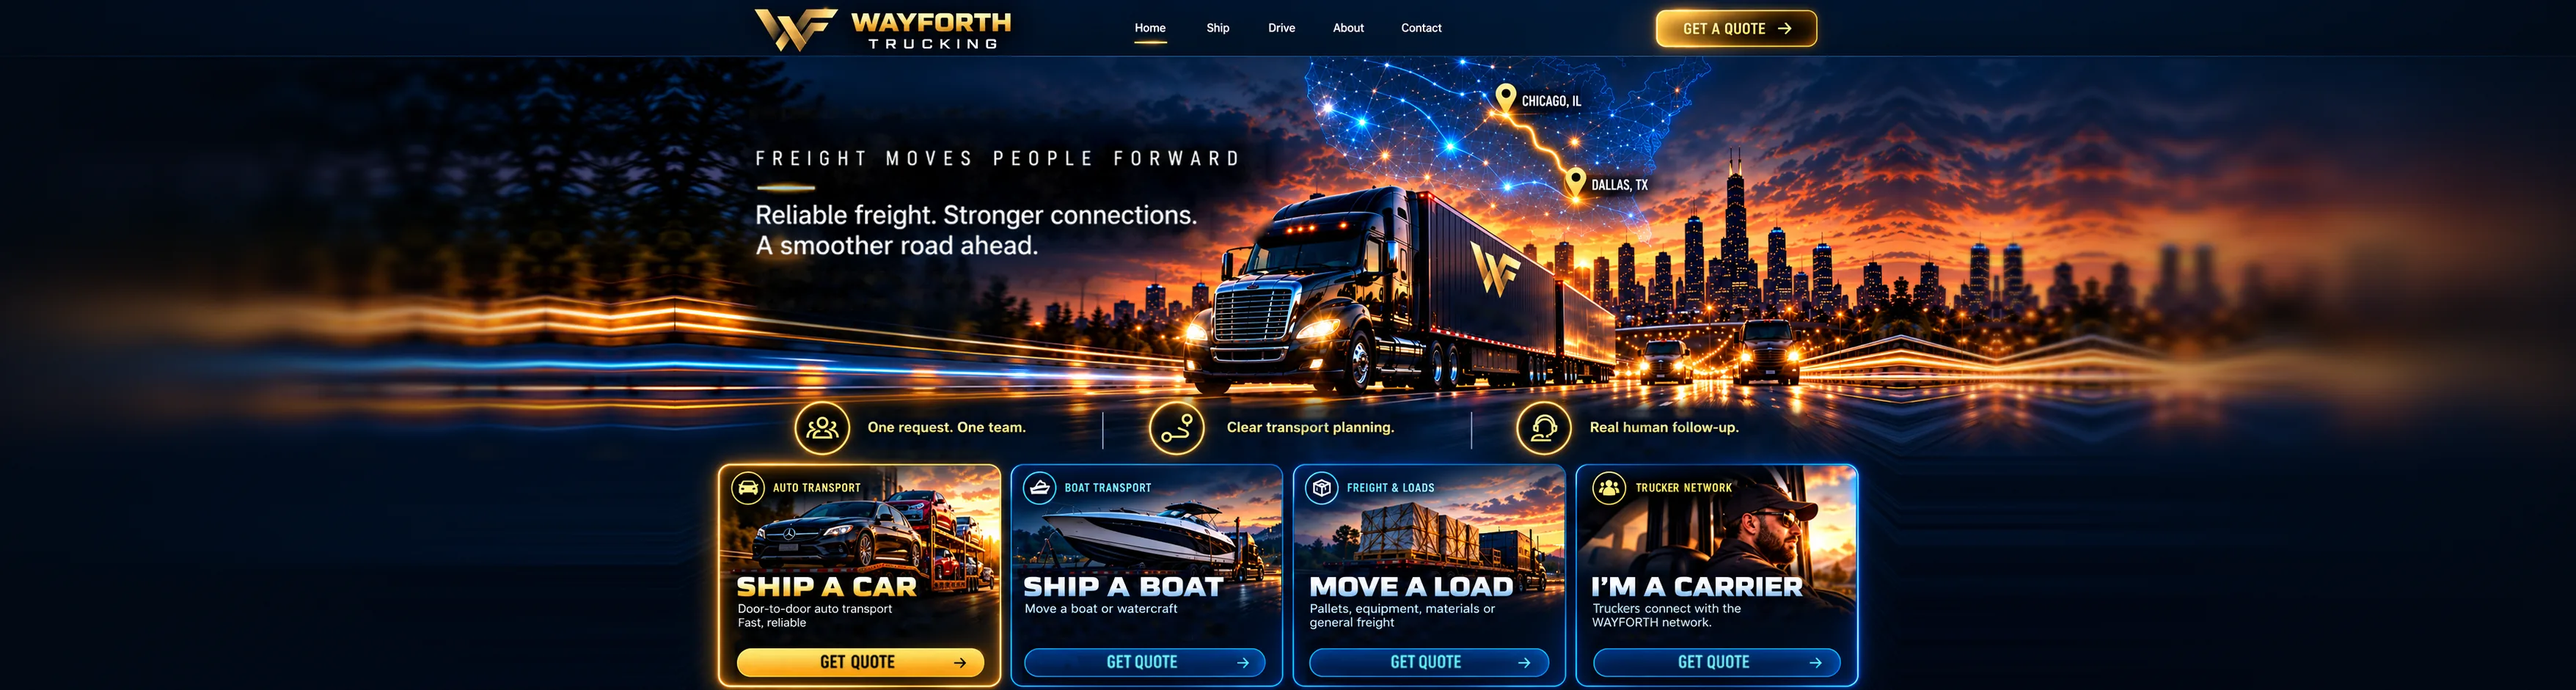
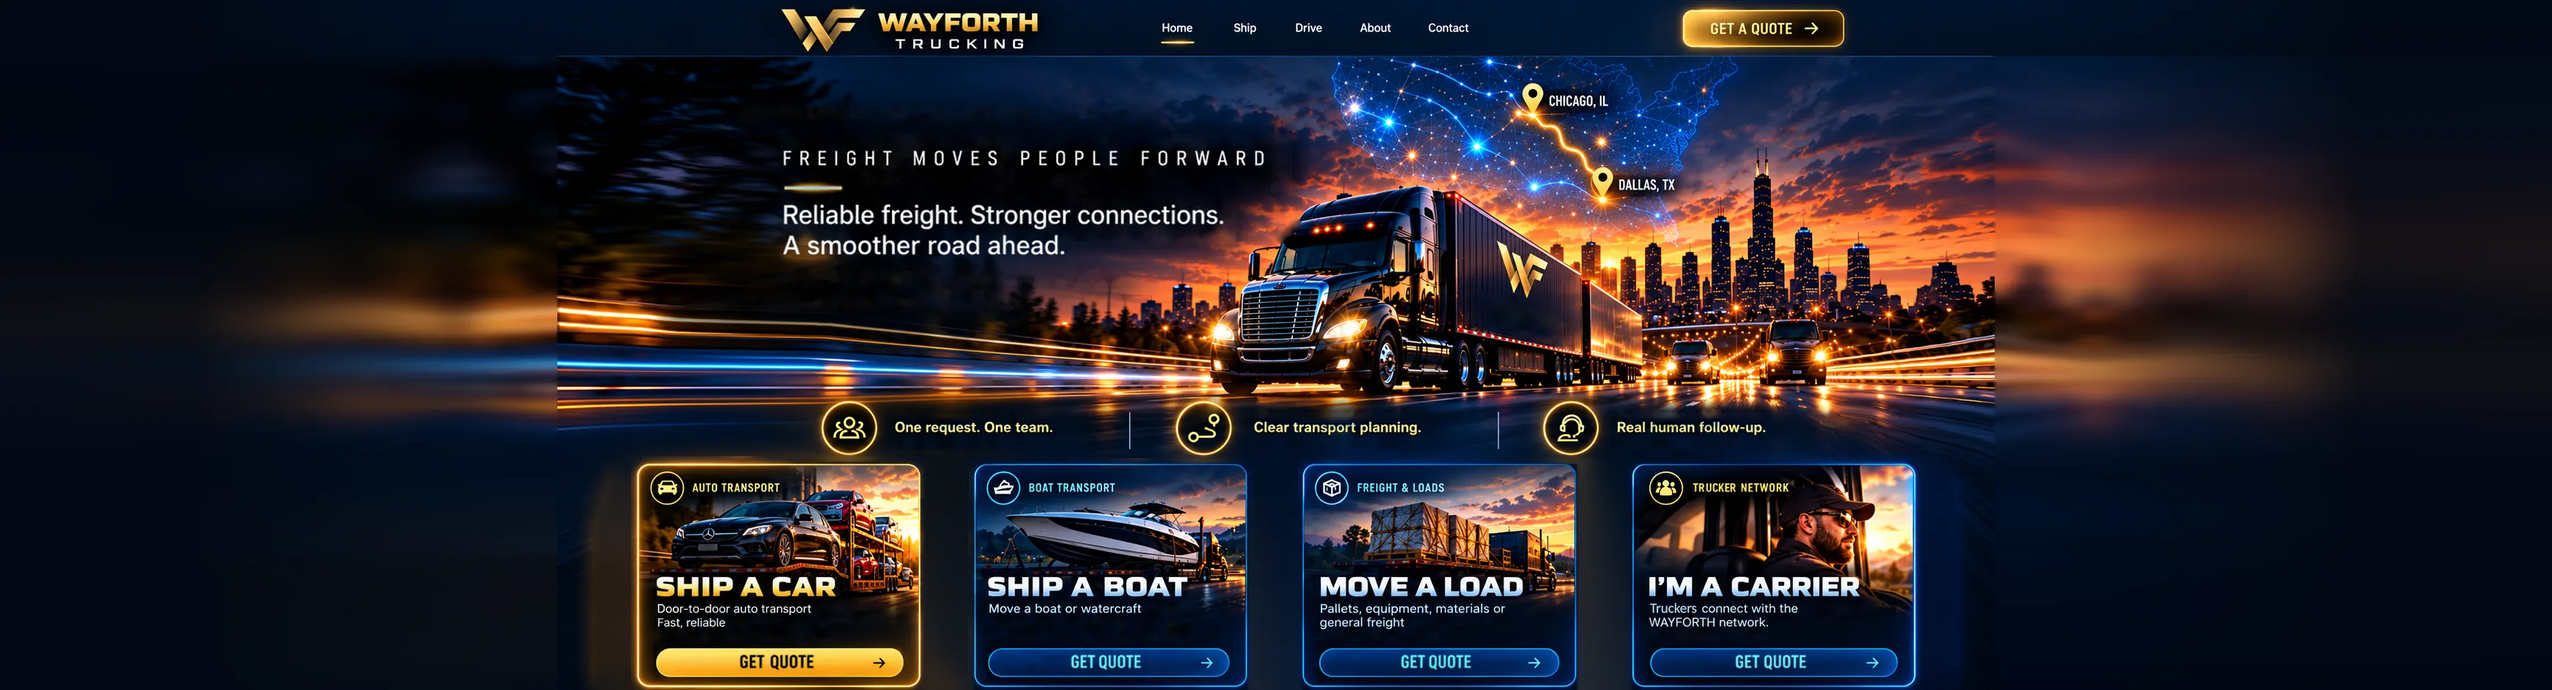
WAYFORTH V36 — Trucking True Widescreen Artwork & Spread-Out Service Cards
WAYFORTH V36 — Trucking True Widescreen Artwork & Spread-Out Service Cards

diff --git a/wayforth-trucking-v22.html b/wayforth-trucking-v22.html
@@ -3,22 +3,22 @@
 <style>
 :root{--gold:#f3c260;--blue:#36baff;--navy:#020a16;--line:rgba(127,166,208,.28);--muted:#a9b9cc}
 *{box-sizing:border-box}html{scroll-behavior:smooth;background:#020914}body{margin:0;background:#020914;color:#fff;font-family:Inter,Arial,sans-serif;overflow-x:hidden;min-height:100vh}
-button{font:inherit}.landing{width:100%;display:flex;justify-content:center;background:#020914 url("trucking-bleed.webp?v=35") center top/auto 100% no-repeat}.stage{position:relative;width:min(100vw,max(1100px,calc(100vh * 1672 / 941)));aspect-ratio:1672/941;overflow:hidden;background:#020914}.stage-img{display:block;width:100%;height:100%;object-fit:contain;user-select:none;pointer-events:none}
+button{font:inherit}.landing{width:100%;min-height:100vh;display:flex;justify-content:center;align-items:flex-start;background:#020914}.stage{position:relative;width:min(100vw,max(1100px,calc(100vh * 1960 / 941)));aspect-ratio:1960/941;overflow:hidden;background:transparent}.stage-img{display:block;width:100%;height:100%;object-fit:contain;user-select:none;pointer-events:none}
 .hotspot{position:absolute;z-index:8;border:0;background:transparent;cursor:pointer;border-radius:22px}.hotspot:focus-visible{outline:2px solid #ffd36e;outline-offset:3px}
-.hs-logo{left:5.1%;top:.35%;width:25.7%;height:8.6%;border-radius:8px}.hs-home{left:36.4%;top:1.4%;width:6.2%;height:7%}.hs-ship{left:42.4%;top:1.4%;width:5%;height:7%}.hs-drive{left:47.4%;top:1.4%;width:5%;height:7%}.hs-about{left:52.5%;top:1.4%;width:5.5%;height:7%}.hs-contact{left:58.1%;top:1.4%;width:6%;height:7%}.hs-quote{left:80.2%;top:1.1%;width:13.4%;height:7.2%}
-.hs-car{left:3.47%;top:67.16%;width:23.12%;height:32.41%}.hs-boat{left:27.5%;top:67.7%;width:22.4%;height:30.2%}.hs-load{left:50.8%;top:67.7%;width:22.4%;height:30.2%}.hs-carrier{left:74.1%;top:67.7%;width:22.6%;height:30.2%}
+.hs-logo{left:13.16%;top:.35%;width:23.16%;height:8.6%;border-radius:8px}.hs-home{left:41.12%;top:1.4%;width:5.31%;height:7%}.hs-ship{left:46.22%;top:1.4%;width:4.29%;height:7%}.hs-drive{left:50.51%;top:1.4%;width:4.29%;height:7%}.hs-about{left:54.85%;top:1.4%;width:4.69%;height:7%}.hs-contact{left:59.64%;top:1.4%;width:5.10%;height:7%}.hs-quote{left:78.47%;top:1.1%;width:11.43%;height:7.2%}
+.hs-car{left:5.51%;top:67.16%;width:19.72%;height:32.41%}.hs-boat{left:29.12%;top:67.7%;width:19.11%;height:30.2%}.hs-load{left:52.21%;top:67.7%;width:19.11%;height:30.2%}.hs-carrier{left:75.35%;top:67.7%;width:19.28%;height:30.2%}
 .car-focus{display:none}
-.car-card-pulse{position:absolute;z-index:6;left:3.47%;top:67.16%;width:23.12%;height:32.41%;overflow:hidden;border-radius:24px;pointer-events:none;transform-origin:center center;animation:carCardBreath 2.35s cubic-bezier(.45,0,.55,1) infinite;will-change:transform}
-.car-card-pulse img{position:absolute;max-width:none;width:432.53%;height:308.55%;left:-15.01%;top:-207.22%;object-fit:fill;user-select:none;pointer-events:none}
+.car-card-pulse{position:absolute;z-index:6;left:5.51%;top:67.16%;width:19.72%;height:32.41%;overflow:hidden;border-radius:24px;pointer-events:none;transform-origin:center center;animation:carCardBreath 2.35s cubic-bezier(.45,0,.55,1) infinite;will-change:transform}
+.car-card-pulse img{position:absolute;max-width:none;width:507.03%;height:308.55%;left:-27.94%;top:-207.22%;object-fit:fill;user-select:none;pointer-events:none}
 @keyframes carCardBreath{0%,100%{transform:scale(1)}50%{transform:scale(1.035)}}
 .glow-ring{position:absolute;z-index:4;border-radius:50%;pointer-events:none;filter:drop-shadow(0 0 7px rgba(255,196,76,.9));animation:iconGlow 1.8s ease-in-out infinite;border:1.5px solid rgba(255,214,113,.2)}
-.gr1{left:9.87%;top:58.13%;width:4.31%;aspect-ratio:1;animation-delay:0s}.gr2{left:38.82%;top:58.13%;width:4.31%;aspect-ratio:1;animation-delay:.6s}.gr3{left:68.66%;top:58.13%;width:4.31%;aspect-ratio:1;animation-delay:1.2s}
+.gr1{left:18.52%;top:58.13%;width:3.67%;aspect-ratio:1;animation-delay:0s}.gr2{left:43.21%;top:58.13%;width:3.67%;aspect-ratio:1;animation-delay:.6s}.gr3{left:68.62%;top:58.13%;width:3.72%;aspect-ratio:1;animation-delay:1.2s}
 @keyframes iconGlow{0%,100%{opacity:.28;transform:scale(.985);box-shadow:0 0 0 0 rgba(255,202,82,0)}45%{opacity:1;transform:scale(1.025);box-shadow:0 0 14px 6px rgba(255,190,56,.5),inset 0 0 8px rgba(255,220,130,.2)}}
 .flash{position:absolute;z-index:5;width:9px;height:9px;border-radius:50%;background:#fffde8;pointer-events:none;box-shadow:0 0 13px 5px #ffe26a,0 0 30px 12px rgba(255,176,28,.78);animation:flash 2.05s ease-in-out infinite}
-.f1{left:41.87%;top:47.82%}.f2{left:51.91%;top:47.82%;animation-delay:.15s}.f3{left:78.80%;top:52.08%;animation-delay:.5s}.f4{left:81.64%;top:52.08%;animation-delay:.58s}.f5{left:87.05%;top:51.38%;animation-delay:.9s}.f6{left:90.93%;top:51.38%;animation-delay:.98s}
+.f1{left:45.82%;top:47.82%}.f2{left:54.34%;top:47.82%;animation-delay:.15s}.f3{left:77.30%;top:52.08%;animation-delay:.5s}.f4{left:79.74%;top:52.08%;animation-delay:.58s}.f5{left:84.34%;top:51.38%;animation-delay:.9s}.f6{left:87.65%;top:51.38%;animation-delay:.98s}
 @keyframes flash{0%,100%{opacity:.12;transform:scale(.55)}14%{opacity:.95;transform:scale(1.35)}22%{opacity:.28;transform:scale(.75)}38%{opacity:1;transform:scale(1.55)}48%{opacity:.16;transform:scale(.6)}}
 .map-dot{position:absolute;z-index:5;width:7px;height:7px;border-radius:50%;pointer-events:none;background:#20baff;border:1px solid rgba(127,225,255,.92);box-shadow:0 0 8px 3px rgba(33,191,255,.85),0 0 22px 8px rgba(0,110,255,.55);animation:mapPulse 2.1s ease-in-out infinite}
-.m1{left:55%;top:10.8%}.m2{left:60.5%;top:15.3%;animation-delay:.35s}.m3{left:65.8%;top:19.6%;animation-delay:.7s}.m4{left:72.2%;top:12.7%;animation-delay:1.05s}.m5{left:76.8%;top:24.2%;animation-delay:1.4s}
+.m1{left:56.99%;top:10.8%}.m2{left:61.68%;top:15.3%;animation-delay:.35s}.m3{left:66.22%;top:19.6%;animation-delay:.7s}.m4{left:71.68%;top:12.7%;animation-delay:1.05s}.m5{left:75.61%;top:24.2%;animation-delay:1.4s}
 @keyframes mapPulse{0%,100%{opacity:.34;transform:scale(.72);background:#168fe8}45%{opacity:1;transform:scale(1.5);background:#35d5ff;box-shadow:0 0 10px 4px rgba(53,213,255,.95),0 0 28px 10px rgba(0,100,255,.68)}}
 .route{position:absolute;z-index:4;inset:0;width:100%;height:100%;pointer-events:none;overflow:visible}.route path{fill:none;stroke-linecap:round}.route-current{stroke:#fff7bd;stroke-width:4;stroke-dasharray:16 150;stroke-dashoffset:0;filter:drop-shadow(0 0 3px #fff3a8) drop-shadow(0 0 8px #ffb42b);animation:electricFlow 1.05s linear infinite}.route-spark{fill:#fffbd6;filter:drop-shadow(0 0 5px #fff2a4) drop-shadow(0 0 10px #ff9f1a)}@keyframes electricFlow{to{stroke-dashoffset:-166}}
 /* modal */
@@ -55,15 +55,17 @@ button{font:inherit}.landing{width:100%;display:flex;justify-content:center;back
 @media(max-width:540px){.transport-choice-row,.operable-choice-row{grid-template-columns:1fr}.field-grid.vehicle-fields,.field-grid.boat-fields{grid-template-columns:1fr}.vehicle-type-grid,.boat-type-grid{grid-template-columns:repeat(2,minmax(0,1fr))}}
 
 @media(max-width:900px){.stage{width:100vw;min-width:900px}.landing{justify-content:flex-start;overflow-x:auto}.field-grid{grid-template-columns:1fr}}
+
+@media (min-aspect-ratio:1960/941){.landing{background:#020914 url("trucking-bleed.webp?v=36") center/auto 100% no-repeat}.stage-img{-webkit-mask-image:linear-gradient(90deg,transparent 0,#000 7%,#000 93%,transparent 100%);mask-image:linear-gradient(90deg,transparent 0,#000 7%,#000 93%,transparent 100%)}}
 @media(prefers-reduced-motion:reduce){.car-focus,.car-card-pulse,.glow-ring,.flash,.map-dot,.route path{animation:none!important}}
 </style></head><body>
 <div class="landing"><div class="stage" id="stage">
-<img src="trucking-final-approved.png?v=35" class="stage-img" alt="WAYFORTH Trucking services">
-<svg class="route" viewBox="0 0 1672 941" preserveAspectRatio="none" aria-hidden="true"><path class="route-current" d="M1114 152 C1117 163 1125 172 1136 179 C1145 185 1149 194 1158 202 C1167 211 1177 220 1187 228 C1195 234 1204 239 1214 243"/><circle class="route-spark" r="3.8"><animateMotion dur="1.05s" repeatCount="indefinite" path="M1114 152 C1117 163 1125 172 1136 179 C1145 185 1149 194 1158 202 C1167 211 1177 220 1187 228 C1195 234 1204 239 1214 243"/></circle></svg>
+<img src="trucking-final-approved.png?v=36" class="stage-img" alt="WAYFORTH Trucking services">
+<svg class="route" viewBox="0 0 1960 941" preserveAspectRatio="none" aria-hidden="true"><path class="route-current" d="M1311 152 C1314 163 1322 172 1333 179 C1342 185 1346 194 1355 202 C1364 211 1374 220 1384 228 C1392 234 1401 239 1411 243"/><circle class="route-spark" r="3.8"><animateMotion dur="1.05s" repeatCount="indefinite" path="M1311 152 C1314 163 1322 172 1333 179 C1342 185 1346 194 1355 202 C1364 211 1374 220 1384 228 C1392 234 1401 239 1411 243"/></circle></svg>
 <span class="map-dot m1"></span><span class="map-dot m2"></span><span class="map-dot m3"></span><span class="map-dot m4"></span><span class="map-dot m5"></span>
 <span class="flash f1"></span><span class="flash f2"></span><span class="flash f3"></span><span class="flash f4"></span><span class="flash f5"></span><span class="flash f6"></span>
 <span class="glow-ring gr1"></span><span class="glow-ring gr2"></span><span class="glow-ring gr3"></span><span class="car-focus"></span>
-<div class="car-card-pulse" aria-hidden="true"><img src="trucking-final-approved.png?v=35" alt=""></div>
+<div class="car-card-pulse" aria-hidden="true"><img src="trucking-final-approved.png?v=36" alt=""></div>
 <button class="hotspot hs-logo" data-nav="home" aria-label="WAYFORTH Home"></button><button class="hotspot hs-home" data-nav="home" aria-label="Home"></button><button class="hotspot hs-ship" data-service="car" aria-label="Ship"></button><button class="hotspot hs-drive" data-service="carrier" aria-label="Drive"></button><button class="hotspot hs-about" data-aux="about" aria-label="About"></button><button class="hotspot hs-contact" data-aux="contact" aria-label="Contact"></button><button class="hotspot hs-quote" data-service="car" aria-label="Get a quote"></button>
 <button class="hotspot hs-car" data-service="car" aria-label="Ship a car"></button><button class="hotspot hs-boat" data-service="boat" aria-label="Ship a boat"></button><button class="hotspot hs-load" data-service="freight" aria-label="Move a load"></button><button class="hotspot hs-carrier" data-service="carrier" aria-label="Join trucker network"></button>
 </div></div>
@@ -217,6 +219,6 @@ function renderStep(){const def=serviceDefs[activeService],step=def.steps[stepIn
 function collectCurrent(){const fd=new FormData(form);for(const [k,v] of fd.entries())if(k!=='')values[k]=v}
 function currentValid(){statusEl.className='form-status';statusEl.textContent='';if(activeService==='car'&&stepIndex===1){const make=host.querySelector('[name="vehicleMake"]'),model=host.querySelector('[name="vehicleModel"]');if(make?.disabled||model?.disabled){statusEl.className='form-status show error';statusEl.textContent='Please wait while we load the vehicle makes and models for your selected year.';return false}}const inputs=[...host.querySelectorAll('input,select,textarea')].filter(el=>!el.disabled);let ok=true;inputs.forEach(el=>{el.setCustomValidity('');if(el.type==='date'&&el.value){if(el.value<todayISO())el.setCustomValidity('Please choose today or a future date.');else if(el.name==='deliveryDate'){const pick=host.querySelector('[name="pickupDate"]');if(pick&&pick.value&&el.value<pick.value)el.setCustomValidity('Delivery date cannot be before the pickup date.')}}if(el.name==='phone'&&el.value){const digits=el.value.replace(/\D/g,'');if(digits.length<7||digits.length>15)el.setCustomValidity('Please enter a valid phone / WhatsApp number (7 to 15 digits).')}if(el.required&&(el.type==='text'||el.tagName==='TEXTAREA')&&el.value&&!el.value.trim())el.setCustomValidity('Please fill out this field.');if(!el.checkValidity()){el.reportValidity();ok=false}});return ok}
 backBtn.addEventListener('click',()=>{if(stepIndex===0){closeService();return}collectCurrent();stepIndex--;renderStep()});
-nextBtn.addEventListener('click',async()=>{if(!currentValid())return;collectCurrent();const def=serviceDefs[activeService];if(stepIndex<def.steps.length-1){stepIndex++;renderStep();return}nextBtn.disabled=true;nextBtn.textContent='Sending…';statusEl.className='form-status';statusEl.textContent='';try{const response=await fetch('/api/trucking-inquiry',{method:'POST',headers:{'Content-Type':'application/json'},body:JSON.stringify({service:activeService,serviceLabel:def.title,source:'WAYFORTH Trucking V35',details:values})});const data=await response.json().catch(()=>({}));if(!response.ok)throw new Error(data.message||'Unable to send your request right now.');statusEl.className='form-status show ok';statusEl.textContent='Your request has been sent to WAYFORTH. A team member can review the details and follow up.';nextBtn.textContent='Sent ✓';setTimeout(closeService,2200)}catch(err){statusEl.className='form-status show error';statusEl.textContent=err.message||'Unable to send your request right now.';nextBtn.disabled=false;nextBtn.textContent='Submit Request →'}});
+nextBtn.addEventListener('click',async()=>{if(!currentValid())return;collectCurrent();const def=serviceDefs[activeService];if(stepIndex<def.steps.length-1){stepIndex++;renderStep();return}nextBtn.disabled=true;nextBtn.textContent='Sending…';statusEl.className='form-status';statusEl.textContent='';try{const response=await fetch('/api/trucking-inquiry',{method:'POST',headers:{'Content-Type':'application/json'},body:JSON.stringify({service:activeService,serviceLabel:def.title,source:'WAYFORTH Trucking V36',details:values})});const data=await response.json().catch(()=>({}));if(!response.ok)throw new Error(data.message||'Unable to send your request right now.');statusEl.className='form-status show ok';statusEl.textContent='Your request has been sent to WAYFORTH. A team member can review the details and follow up.';nextBtn.textContent='Sent ✓';setTimeout(closeService,2200)}catch(err){statusEl.className='form-status show error';statusEl.textContent=err.message||'Unable to send your request right now.';nextBtn.disabled=false;nextBtn.textContent='Submit Request →'}});
 </script>
 </body></html>
